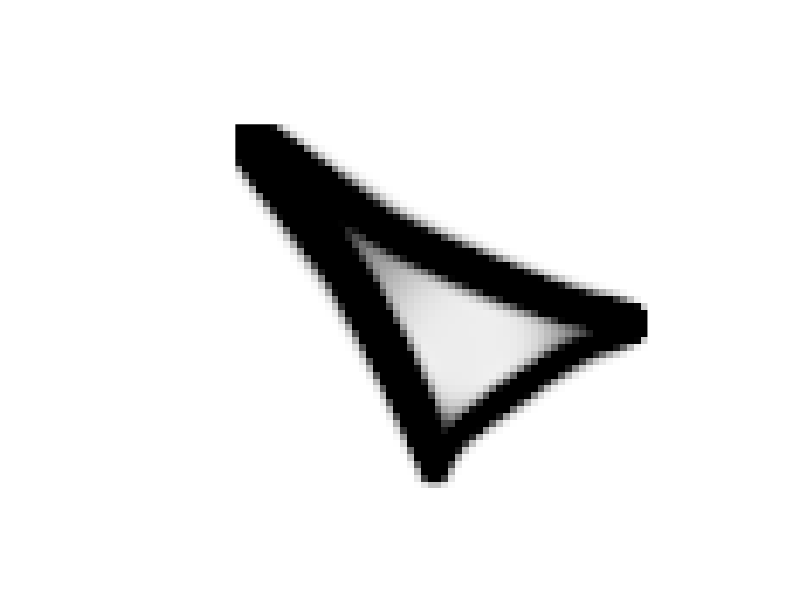
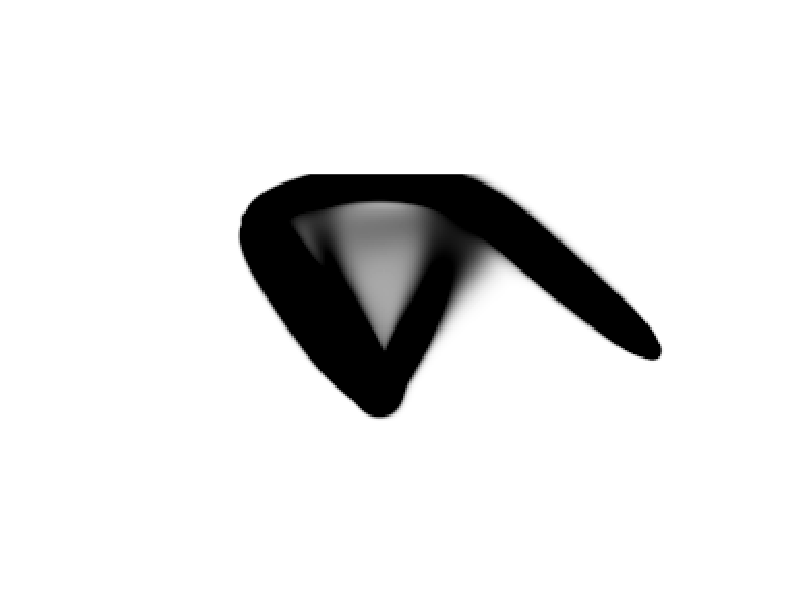
Last commit for part1

Changed region(s): [[0.2812, 0.18, 0.8438, 0.84]]

diff --git a/lab_6/solution.py b/lab_6/solution.py
@@ -1,13 +1,15 @@
 #!/usr/bin/python
 
 from digifab import *
-#from solution_lab5 import * #importing the SynthFourBar class
+from solution_lab5 import * #importing the SynthFourBar class
 import numpy
 import solid
 
 # EDITED - Luis #
 
 # USEFULL THING #
+
+origin = numpy.array([0,0,0])
 
 def pts_to_vec (pt_a, pt_b):
   start = numpy.asarray(pt_a)
@@ -80,28 +82,6 @@ def joints_bb_coord (mechanism):
 
 # EDITED - Luis ###################
 
-# MAKING THE OPTIMIZED POLILYNE A BODY #
-
-"""
-def making_a_body(pl, joints):
-	return Body (
-		joints= [Joint(name = 'joint_0')],
-		layers = Layer(
-			)
-		)
-
-def dummy_arm(name):
-  
-  return Body(
-    joints = [Joint(name='shoulder')],
-    layers = Layer(
-      PolyMesh(generator=solid.cube([30,10,3])),
-      name = 'print',
-      color = 'blue'
-    ),
-    name = name
-  )
-"""
 
 # EDITED - Casey #
 
@@ -120,21 +100,154 @@ def dumb_coordinates(cList, bounds, dim):
 
 # EDITED - Casey ##################
 
+# EDITED - Luis #
+
+###################################
+
+# IMPORTING MECHANISMS #
+#gripper_r_arm = SynthFourBar(B = 35+18.52j, D = 84.15 + 52.93j, P= (100+237.1j, 76.95+244.45j, 53+250j, 28.6+253.3j, 4+254.73j)) #the solution is gripper_r_arm.children[0]
+#gripper_arm = gripper_r_arm.children[0]
+
+robot_leg = SynthFourBar(B= 0+80j, D= 0+20j, P= pattern(0.5, 10+0j)) #the solution is robot_leg.children[1]
+robot_leg = robot_leg.children[1]
+ternary_part = filter_three_joints(robot_leg)
+
+###################################
+
+# ALTERNATIVE WAY TO MAKE THE COORDINATE SYSTEM TRANSFORMATION #
+# Usefull stuff #
+
+ternary_bbox_min = numpy.append(numpy.asarray(ternary_part.bounding_box().bounds()[0]), [0])
+ternary_bbox_max = numpy.append(numpy.asarray(ternary_part.bounding_box().bounds()[1]), [0])
+
+ternary_tr_vec = pts_to_vec(ternary_bbox_min, origin)
+
+# Principal functions #
+
+def grid_cart (cell_number, cell_length): #returns a grid with the same number of cells in the y and the x direction
+	dim = cell_length
+	vertex = []
+	column_num = cell_number + 1
+	row_num = cell_number + 1
+	for i in range(column_num): 
+		for j in range(row_num):
+			vertex.append([i*dim, j*dim, 0])
+	return numpy.asarray(vertex)
+
+
+def grid_cart_pts (cell_number_x, cell_number_y, cell_length_x, cell_length_y): #returns a grid with the different number of cells in the y and the x direction
+	dim1 = cell_length_x
+	dim2 = cell_length_y
+	vertex = []
+	column_num = int(cell_number_x + 1)
+	row_num = int(cell_number_y + 1)
+	for i in range(column_num): 
+		for j in range(row_num):
+			vertex.append([i*dim1, j*dim2, 0])
+	return numpy.asarray(vertex)
+
+def closest_points(node, nodes): #computes what is the point in topy vertex notation that is closest to a given point
+	node = numpy.asarray(node)
+	dist_2 = numpy.sum((nodes - node)**2, axis=1)
+	return numpy.argmin(dist_2) + 1
+
+def remap_pts_px(cart_pts, dim, dist): #remaps cartesian coordinates to "pixel" coordinates of a square grid
+  px_pts_x = (cart_pts[0] * dim) / dist
+  px_pts_y = (cart_pts[1] * dim) / dist
+  px_pts = numpy.array([px_pts_x, px_pts_y, 0]) 
+  return px_pts
+
+def remap_pts_px1(cart_pts, dim_x, dim_y, w, h): #remaps cartesian coordinates to "pixel" coordinates of any grid
+  px_pts_x = (cart_pts[0] * dim_x) / w
+  px_pts_y = (cart_pts[1] * dim_y) / h
+  px_pts = numpy.array([px_pts_x, px_pts_y, 0]) 
+  return px_pts
+
+joints_pose = numpy.asarray(joints_bb_coord(robot_leg)[0]) # to make math with arrays
+
+joints_pose_tr = [x + ternary_tr_vec for x in joints_pose] # translating the original joints pose origin
+joints_pose_tr = (map(tuple, joints_pose_tr )) # making the transformed joints pose into a tupple 
+
+# CREATING NEW POSES FOR THE JOINTS OF THE TRANSLATE TERNARY PART #
+
+joints_pose_tr_0 = (joints_pose_tr[0], Z_JOINT_POSE[1])
+joints_pose_tr_1 = (joints_pose_tr[1], Z_JOINT_POSE[1]) 
+joints_pose_tr_2 = (joints_pose_tr[2], Z_JOINT_POSE[1]) 
+
+ternary_part_tr = ternary_part.transformed((tuple(ternary_tr_vec), Z_JOINT_POSE[1]))
+ternary_part_pl = ternary_part_tr[0] # to do: make this a layer with the 2 on it
+
+
+# CALCULATING CELL LENGTH (cell_l) KNOWING CELL NUMBER (cell_n) #
+
+cell_n = 240
+
+ternary_bBox= ternary_part_pl.bounding_box().points
+
+ternary_w = numpy.linalg.norm(pts_to_vec(ternary_bBox[0],ternary_bBox[3]))
+ternary_h = numpy.linalg.norm(pts_to_vec(ternary_bBox[0],ternary_bBox[1]))
+
+max_distance = max(ternary_w, ternary_h)
+
+cell_y = int(round((ternary_h * cell_n)/ternary_w))
+
+#cell_l = 0.265 #mm per pixel
+
+# REMAPPING THE POINTS IN PIXEL(grid) WORLD #
+
+nodes_pts = [remap_pts_px1(i, cell_n, cell_y, ternary_w, ternary_h) for i in joints_pose_tr]
+
+# GENERATING THE GRID AND THE NODES #
+
+grid = grid_cart(cell_n,1)
+grid = grid_cart_pts(cell_n, cell_y, 1, 1) # to be consistent we assume that each cell has 1 unit
+topo_nodes = [closest_points(x,grid) for x in nodes_pts]
+
 if __name__ == '__main__':
 
-  ###################################
+  p = PolyLine(filename='ternary_link_030.png')
+  p_bBox = p.bounding_box()
+  p_bBox_origin = numpy.append(p_bBox.points[0],[0])
+  tr_mtx = translation_matrix(pts_to_vec(p_bBox_origin, origin))
+  p *= tr_mtx
+  
+  # Lets create big circles and position them #
+  a_circle= PolyLine(generator= solid.circle(5.5)).simplified()
+  a_circle_lst=[]
 
-  # IMPORTING MECHANISMS #
-  #gripper_r_arm = SynthFourBar(B = 35+18.52j, D = 84.15 + 52.93j, P= (100+237.1j, 76.95+244.45j, 53+250j, 28.6+253.3j, 4+254.73j)) #the solution is gripper_r_arm.children[0]
-  #gripper_arm = gripper_r_arm.children[0]
+  for i in range(len(joints_pose_tr)):
+  	b = a_circle.clone()
+  	trl_mtx = translation_matrix(joints_pose_tr[i])
+  	b *= trl_mtx
+  	a_circle_lst.append(b)
 
-  #robot_leg = SynthFourBar(B= 0+80j, D= 0+20j, P= pattern(0.5, 10+0j)) #the solution is robot_leg.children[1]
-  #robot_leg = robot_leg.children[1]
+  # Lets create circles/holes for the joints and position them #
+  c_circle= PolyLine(generator= solid.circle(3.5)).simplified()
+  c_circle_lst=[]
 
-  ###################################
+  for i in range(len(joints_pose_tr)):
+    d = c_circle.clone()
+    trl_mtx = translation_matrix(joints_pose_tr[i])
+    d *= trl_mtx
+    c_circle_lst.append(d)
 
-  p = PolyLine(filename='ternary_link_020.png')
-  p.show()
-  #bot_leg_joints_bb = joints_bb_coord(robot_leg)
-  #print bot_leg_joints_bb[0]
-  #print dumb_coordinates(bot_leg_joints_bb[0], bot_leg_joints_bb[1], 60)
+  p_bBox= p.bounding_box().points
+  
+  p_w = numpy.linalg.norm(pts_to_vec(p_bBox[0],p_bBox[3]))
+  p_h = numpy.linalg.norm(pts_to_vec(p_bBox[0],p_bBox[1]))
+
+  scale_factor_x = ternary_w/p_w
+  scale_factor_y = ternary_h/p_h
+
+  p_scl = PolyLine(generator= solid.scale([scale_factor_x,scale_factor_y,1])(p.get_generator())).simplified()
+
+  for i in range(len(a_circle_lst)):
+    p_scl = p_scl | a_circle_lst[i]
+   
+  # Lets create layers #
+  p_scl_layer= Layer(p_scl, color= 'red')
+  circle_layer= Layer(c_circle_lst, color='red')
+
+  Final_block = Block([p_scl_layer, circle_layer])
+
+  a_layout= Layout(blocks= Final_block).save('opt_foot.dxf')
